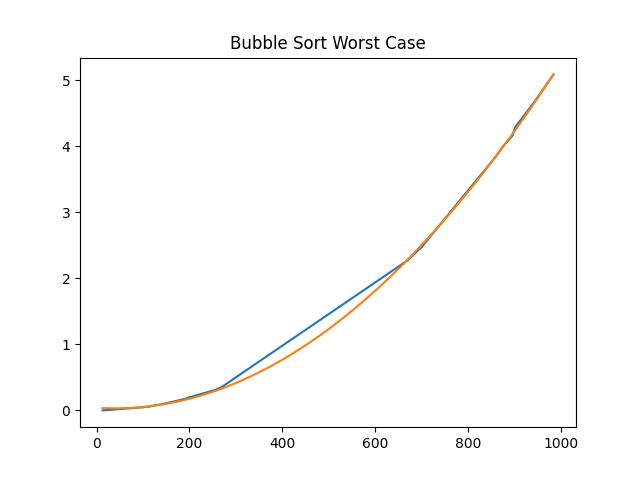
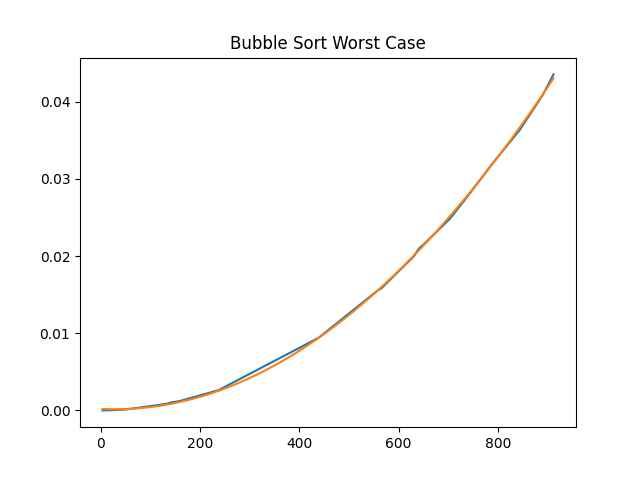
Fix image file paths in code

diff --git a/ex2.py b/ex2.py
@@ -32,7 +32,7 @@ def interpolateAndPlot(listsize, times, popt, pcov, func, title):
     x = np.linspace(min(listsize), max(listsize), num=100, endpoint=True)
     plt.plot(listsize, times, x, func(x, *popt), '-')
     plt.title(title)
-    plt.savefig(title + '.png')
+    plt.savefig('./img/'+title + '.png')
     plt.show()
 def plotQuickVersusBubble(listsize, timeitBubbleSortAvg, timeitQuickSortAvg, poptBS, pcovBS, poptQS, pcovQS, func1, func2,title):
     x = np.linspace(min(listsize), max(listsize), num=100, endpoint=True)
@@ -43,7 +43,7 @@ def plotQuickVersusBubble(listsize, timeitBubbleSortAvg, timeitQuickSortAvg, pop
     plt.ylabel('Time')
 
     plt.title(title)
-    plt.savefig(title + '.png')
+    plt.savefig('./img/'+title + '.png')
     plt.show()
 def sortRegardListSize(arr):
     if len(arr) <= 1:
@@ -86,9 +86,9 @@ if __name__ == '__main__':
             timeitBubbleSortAvgtemp.append(timeit.timeit(lambda: bubblesort(arrCopy),number=1))
             random.shuffle(arrCopy)
             timeitQuickSortAvgtemp.append(timeit.timeit(lambda: quicksort(arrCopy), number=1))
-        timeitBubbleSortAvg.append(sum(timeitBubbleSortAvgtemp))
+        timeitBubbleSortAvg.append((sum(timeitBubbleSortAvgtemp))/100)
         print('Bubble Sort Average Time:', timeitBubbleSortAvg[-1])
-        timeitQuickSortAvg.append(sum(timeitQuickSortAvgtemp))
+        timeitQuickSortAvg.append((sum(timeitQuickSortAvgtemp))/100)
         print('Quick Sort Average Time:', timeitQuickSortAvg[-1])
 
     
@@ -103,10 +103,10 @@ if __name__ == '__main__':
             arrCopy = copy.deepcopy(arrofArrays[i])
             random.shuffle(arrCopy)
             timeitQSBTemp.append(timeit.timeit(lambda: quicksort(arrCopy), number=1))
-        timeitBubbleSortBest.append(sum(timeitBSBTemp))
+        timeitBubbleSortBest.append((sum(timeitBSBTemp))/100)
         print('Bubble Sort Best Time:', timeitBubbleSortBest[-1])
-        timeitQuickSortBestSorted.append(sum(timeitQSBTemp))
-        print('Quick Sort Best Time:', timeitQuickSortBestSorted[-1])
+        timeitQuickSortBestSorted.append((sum(timeitQSBTemp))/100)
+        print('Quick Sort Best Time:', timeitQuickSortBestSorted[-1]/100)
 
 
     timeitBubbleSortWorst = []
@@ -119,9 +119,9 @@ if __name__ == '__main__':
             timeitBSWTemp.append(timeit.timeit(lambda: bubblesort(arrCopy), number=1))
             arrCopy = copy.deepcopy(reversedSortedArrays[i])
             timeitQSWTemp.append(timeit.timeit(lambda: quicksort(arrCopy), number=1))
-        timeitBubbleSortWorst.append(sum(timeitBSWTemp))
+        timeitBubbleSortWorst.append((sum(timeitBSWTemp))/100)
         print('Bubble Sort Worst Time:', timeitBubbleSortWorst[-1])
-        timeitQuickSortWorst.append(sum(timeitQSWTemp))
+        timeitQuickSortWorst.append((sum(timeitQSWTemp))/100)
         print('Quick Sort Worst Time:', timeitQuickSortWorst[-1])
     listsize = []
     for i in range(20):
